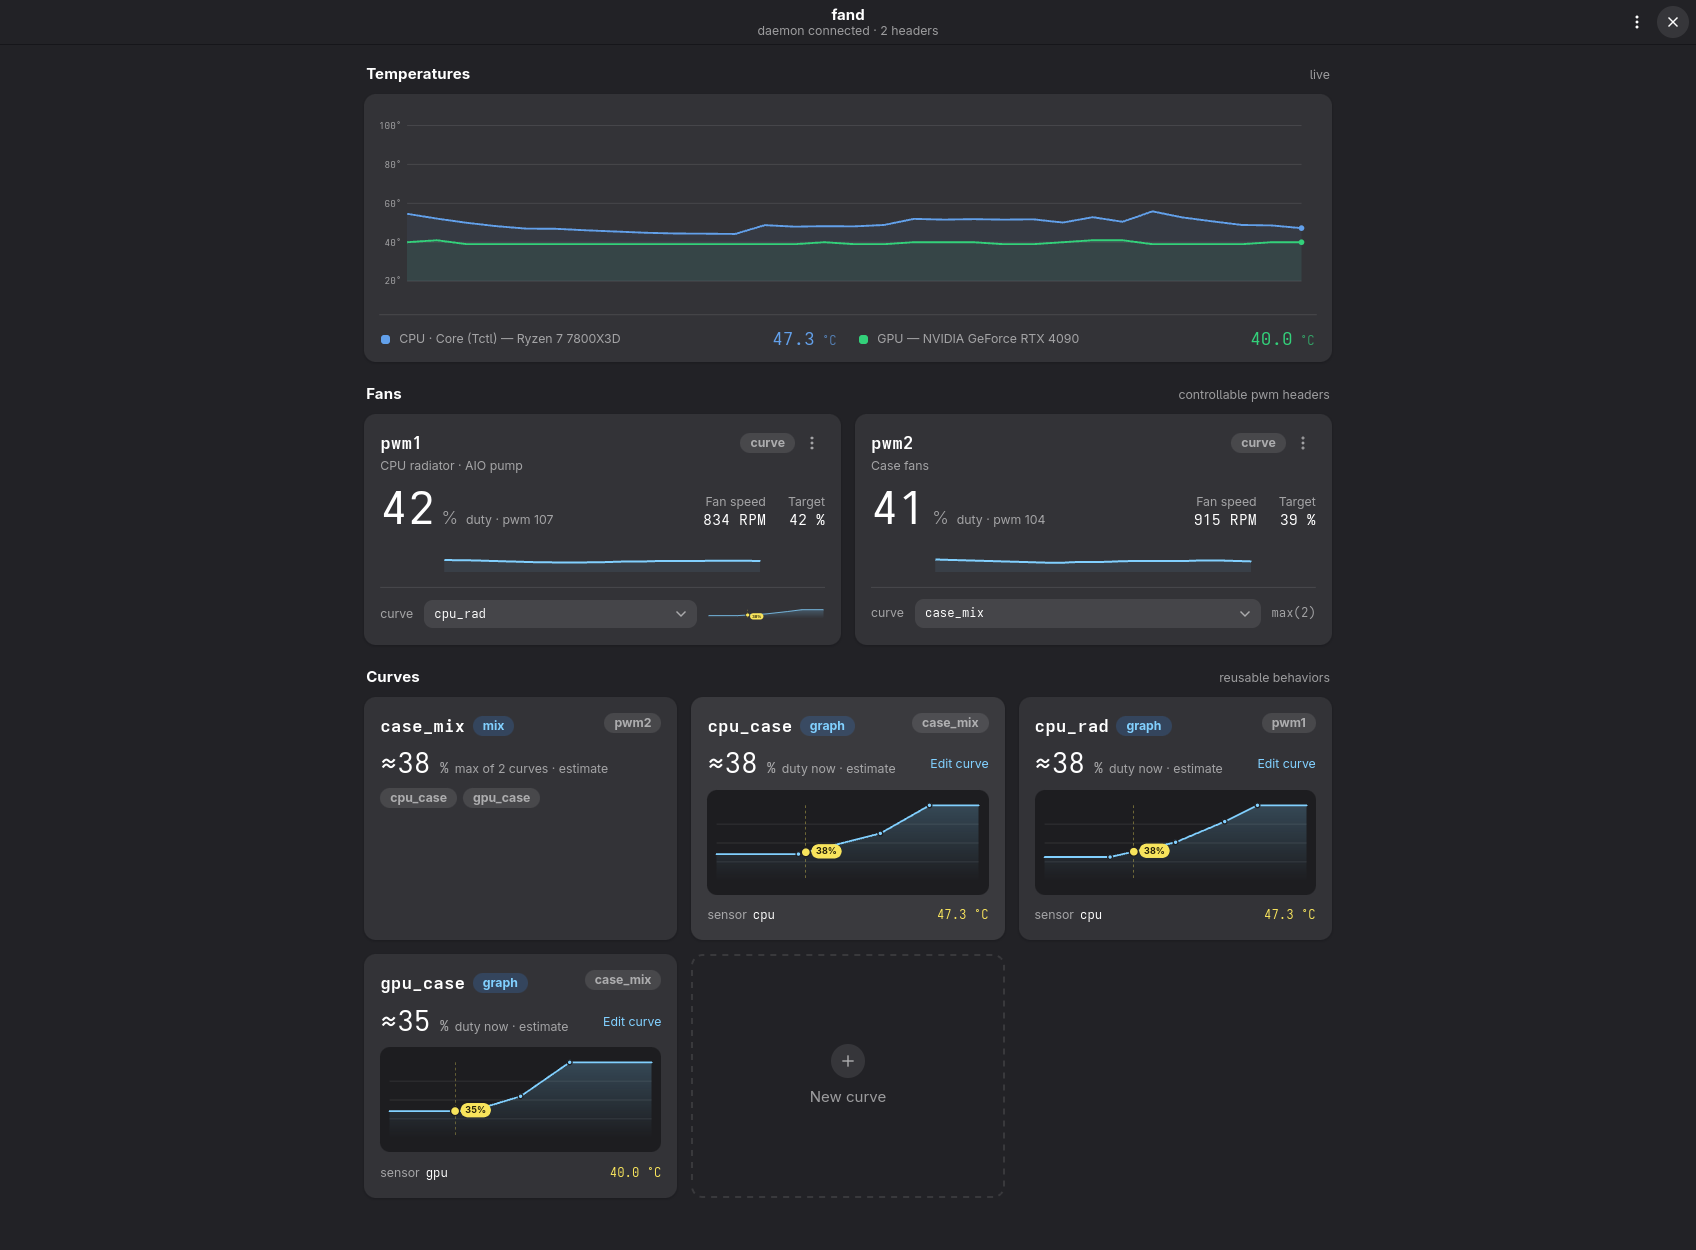
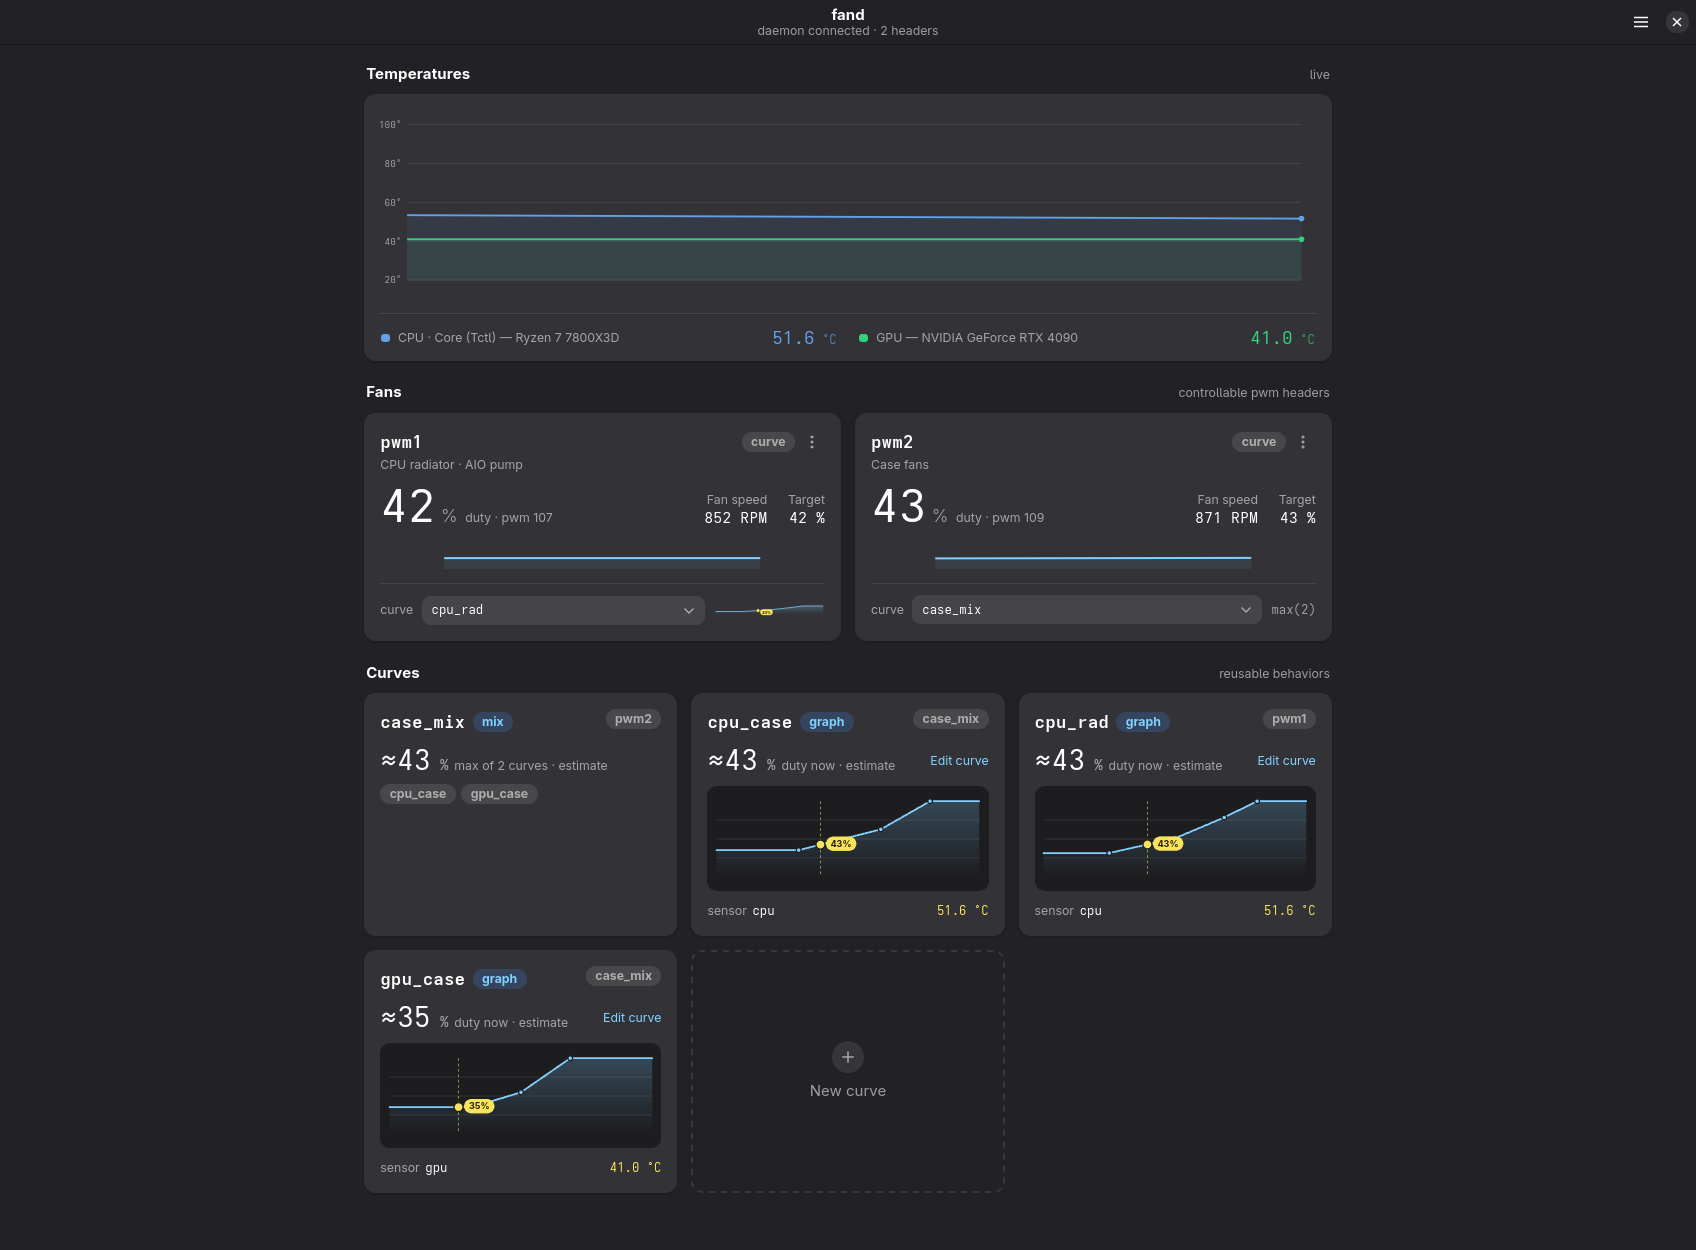
chore: updating image assets

diff --git a/AGENTS.md b/AGENTS.md
@@ -51,7 +51,10 @@ lib/
   journal-meta.ts          Client-safe journal types and display metadata
   lab-meta.ts              Lab metadata and accent types
   lab-models.ts            Lazy TensorFlow.js loading and model cache
-public/models/              TensorFlow.js model manifests, weights, and vocabulary
+public/
+  journal/<slug>/          Images for one journal entry, folder named for its slug
+  models/                  TensorFlow.js model manifests, weights, and vocabulary
+  projects/                Work-card plates, one file per entry in lib/work-data.ts
 scripts/                    One-off maintenance utilities
 docs/                       Design and implementation notes
 ```
@@ -154,6 +157,8 @@ dek: "Short summary"
 Optional fields include `status` (`published` or `draft`), `sub`, `hero`, `heroAlt`, `heroCaption`, and `related`. A `hero` requires `heroAlt`; every `related` value must name an existing journal slug. Add a tag only by deliberately extending the allowlist in `lib/journal.ts`.
 
 Journal table-of-contents entries are generated from level-two (`##`) headings. Avoid manually assigning metadata that `lib/journal.ts` derives, including reading time, entry number, and page number.
+
+Entry images live in `public/journal/<slug>/`, named for what they show (`hero.png`, `heat-ramp.png`) rather than numbered — plate numbers come from document order, so a numbered filename goes stale the moment a plate is inserted above it. Reference them by public-root path in `hero` frontmatter or an MDX `<Figure src alt>`; both read intrinsic size through `lib/image-dims.ts` at build time, so a missing or moved file fails the build. Keep screenshot sources as PNG and let `next/image` handle delivery encoding.
 
 ## TensorFlow.js and Lab Code
 
